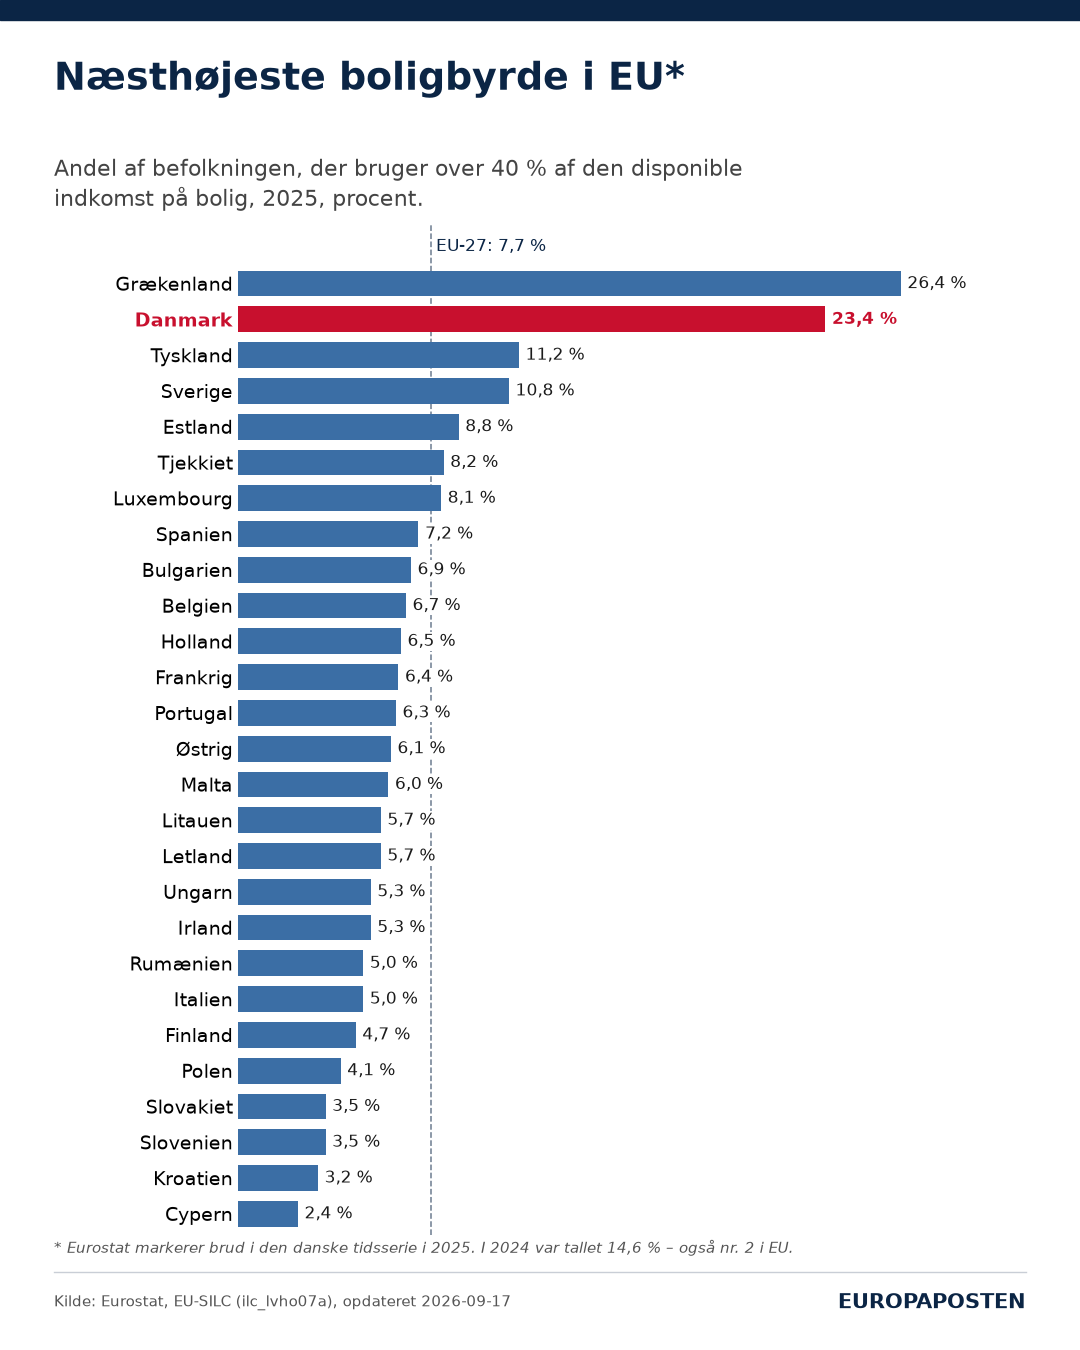
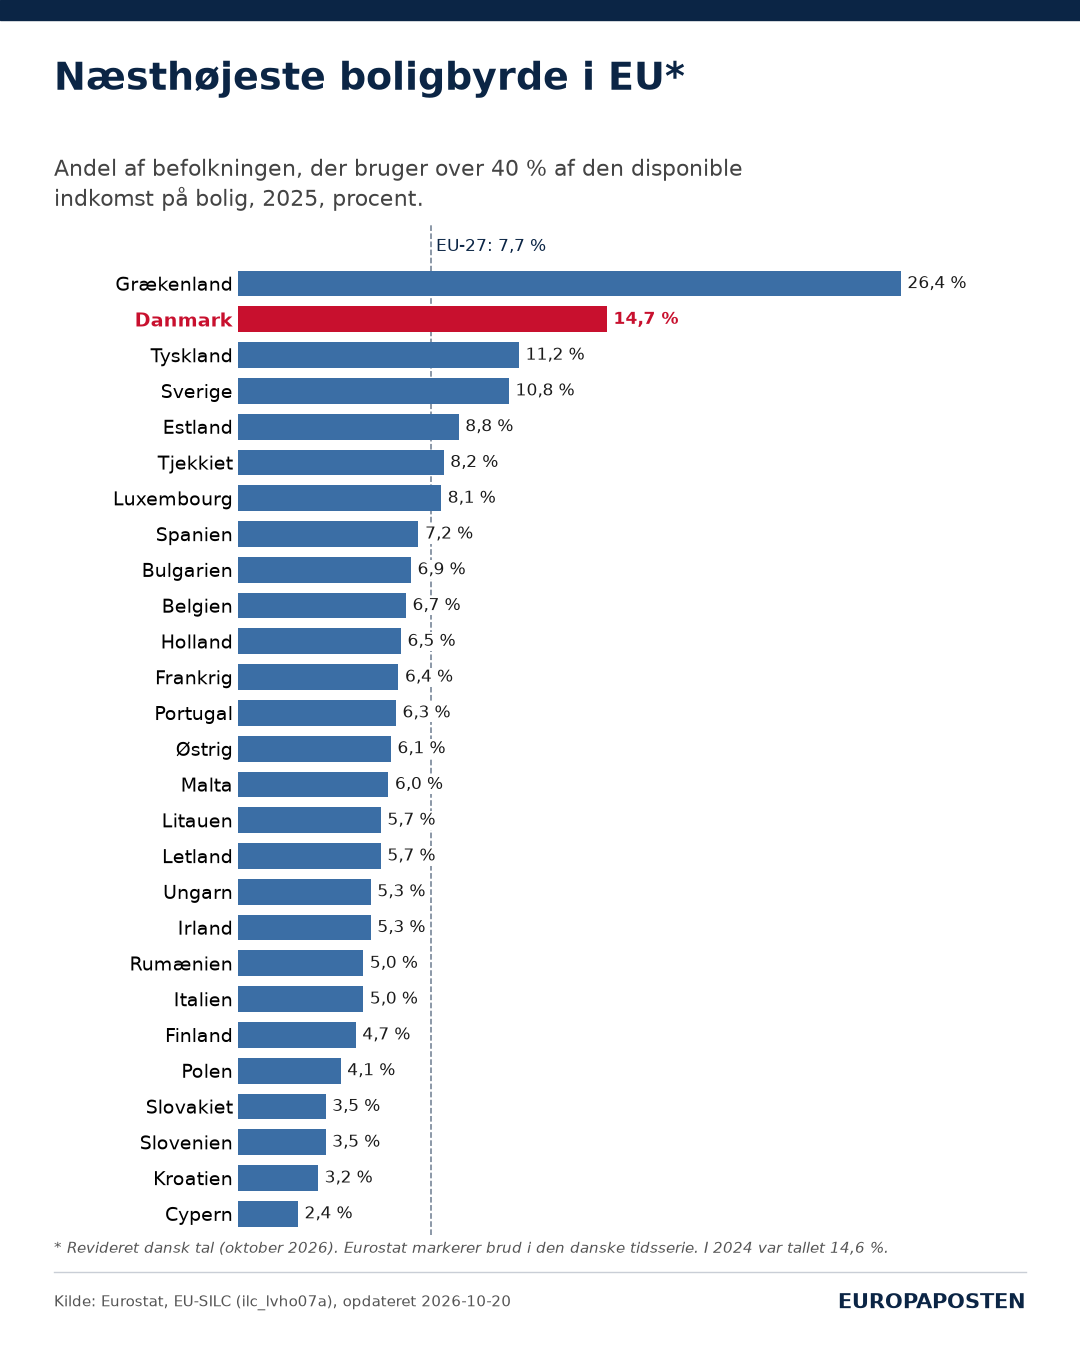
Rettelse: revideret dansk boligbyrde 2025 (23,4 -> 14,7 %) (#101)

Changed region(s): [[0.0611, 0.9022, 0.7639, 0.9333], [0.55, 0.2178, 0.825, 0.2489]]

diff --git a/content/artikler/2026-10-14-eu-graf-boligbyrde-2025.md b/content/artikler/2026-10-14-eu-graf-boligbyrde-2025.md
@@ -1,37 +1,37 @@
 ---
-title: "EU-graf: Næsten hver fjerde dansker har tung boligbyrde – kun Grækenland ligger højere"
+title: "EU-graf: Hver syvende dansker har tung boligbyrde – kun Grækenland ligger højere"
 slug: eu-graf-boligbyrde-2025
 date: 2026-10-14 17:45
 section: oekonomi
 type: Analyse
 kicker: EU i tal
 author: Europaposten-redaktionen
-summary: 23,4 procent af danskerne bor i en husstand, der bruger mere end 40 procent af indkomsten på bolig. Det er tre gange EU-gennemsnittet og næsthøjest i EU. Eurostat markerer dog et brud i den danske tidsserie, så stigningen fra 2024 skal læses med forsigtighed.
+summary: 14,7 procent af danskerne bor i en husstand, der bruger mere end 40 procent af indkomsten på bolig. Det er næsten dobbelt så meget som EU-gennemsnittet og næsthøjest i EU. Tallet er revideret ned fra 23,4 procent.
 draft: nej
 illustration: eu-graf-boligbyrde-2025.png
-illustration_alt: Søjlediagram over andelen af befolkningen med boligudgifter over 40 procent af den disponible indkomst i 2025. Grækenland 26,4 procent, Danmark 23,4, Tyskland 11,2, Sverige 10,8. EU-27 7,7 procent. Lavest Cypern med 2,4.
+illustration_alt: Søjlediagram over andelen af befolkningen med boligudgifter over 40 procent af den disponible indkomst i 2025. Grækenland 26,4 procent, Danmark 14,7, Tyskland 11,2, Sverige 10,8. EU-27 7,7 procent. Lavest Cypern med 2,4.
 illustration_caption: Andel af befolkningen, der bruger over 40 procent af den disponible indkomst på bolig, 2025. Danmark er fremhævet.
 illustration_credit: "Grafik: Europaposten. Data: [Eurostat, EU-SILC, ilc_lvho07a](https://ec.europa.eu/eurostat/databrowser/view/ilc_lvho07a/default/table)."
 sources:
-  - Eurostat: Housing cost overburden rate (ilc_lvho07a), opdateret 17. september 2026 | https://ec.europa.eu/eurostat/databrowser/view/ilc_lvho07a/default/table
+  - Eurostat: Housing cost overburden rate (ilc_lvho07a), opdateret 20. oktober 2026 | https://ec.europa.eu/eurostat/databrowser/view/ilc_lvho07a/default/table
   - Eurostat API-udtræk for 2024–2025 | https://ec.europa.eu/eurostat/api/dissemination/statistics/1.0/data/ilc_lvho07a?rskpovth=TOTAL&age=TOTAL&sex=T&unit=PC&lastTimePeriod=2
   - Danmarks Statistik: Levevilkårsundersøgelsen (SILC), sammenlignelighed | https://www.dst.dk/da/Statistik/dokumentation/statistikdokumentation/levevilkaarsundersoegelsen--silc-/sammenlignelighed
 ---
 
-*Opdatering 15. oktober 2026: Det danske tal for 2025 bliver revideret. Grafen og artiklen opdateres, når Eurostat har offentliggjort de reviderede tal.*
+*Rettelse 21. oktober 2026: Danmarks Statistik har revideret tallet for 2025, og Eurostat har opdateret sin database. Den danske andel er nu 14,7 procent mod 23,4 procent i den første version af artiklen. Grafen og teksten er opdateret. Danmark har fortsat EU's næsthøjeste boligbyrde.*
 
-23,4 procent af danskerne boede i 2025 i en husstand, hvor boligudgifterne slugte mere end 40 procent af den disponible indkomst. Kun i Grækenland er andelen højere, med 26,4 procent. EU-gennemsnittet er 7,7 procent. Det viser de nyeste tal fra [Eurostat](https://ec.europa.eu/eurostat/databrowser/view/ilc_lvho07a/default/table).
+14,7 procent af danskerne boede i 2025 i en husstand, hvor boligudgifterne slugte mere end 40 procent af den disponible indkomst. Kun i Grækenland er andelen højere, med 26,4 procent. EU-gennemsnittet er 7,7 procent. Det viser de nyeste tal fra [Eurostat](https://ec.europa.eu/eurostat/databrowser/view/ilc_lvho07a/default/table).
 
 Efter Danmark følger Tyskland (11,2 procent) og Sverige (10,8). Lavest ligger Cypern med 2,4 procent og Kroatien med 3,2.
 
-## Et brud i tidsserien
+## Stabilt niveau
 
-Tallet skal læses med forsigtighed. I 2024 var den danske andel 14,6 procent, og den har ligget mellem 14 og 16 procent siden 2014. Eurostat har markeret 2025-tallet for Danmark med et brud i tidsserien. Det betyder, at noget i måden at måle på har ændret sig, så spring fra 2024 til 2025 ikke nødvendigvis afspejler, at flere har fået det sværere. Hvad bruddet skyldes, fremgår ikke af Eurostats tabel. Europaposten opdaterer artiklen, når de reviderede tal foreligger.
+Det reviderede tal ligger tæt på tidligere år. I 2024 var den danske andel 14,6 procent, og den har ligget mellem 14 og 16 procent siden 2014. Eurostat markerer fortsat 2025-tallet for Danmark med et brud i tidsserien, så sammenligningen med tidligere år skal læses med en vis forsigtighed.
 
-Placeringen afhænger dog ikke af bruddet. Også i 2024 havde Danmark EU's næsthøjeste boligbyrde, kun overgået af Grækenland med 28,9 procent.
+Placeringen er den samme. Også i 2024 havde Danmark EU's næsthøjeste boligbyrde, kun overgået af Grækenland med 28,9 procent.
 
 ## Sådan måles det
 
 Målet er EU's fælles mål for, om bolig er til at betale. Det tæller husleje, renter på boliglån, varme, el og vedligehold, men ikke afdrag. Boligstøtte er trukket fra både udgiften og indkomsten. Målet kan ikke se, hvad danskerne får for pengene i form af størrelse og standard.
 
-*Om tallene: Eurostat-indikatoren ilc_lvho07a (housing cost overburden rate, hele befolkningen), baseret på EU-SILC og hentet 14. oktober 2026. Grafen er en del af Europapostens nye serie »EU i tal«.*
+*Om tallene: Eurostat-indikatoren ilc_lvho07a (housing cost overburden rate, hele befolkningen), baseret på EU-SILC og hentet 14. oktober 2026 og opdateret med revideret tal 21. oktober 2026. Grafen er en del af Europapostens nye serie »EU i tal«.*
